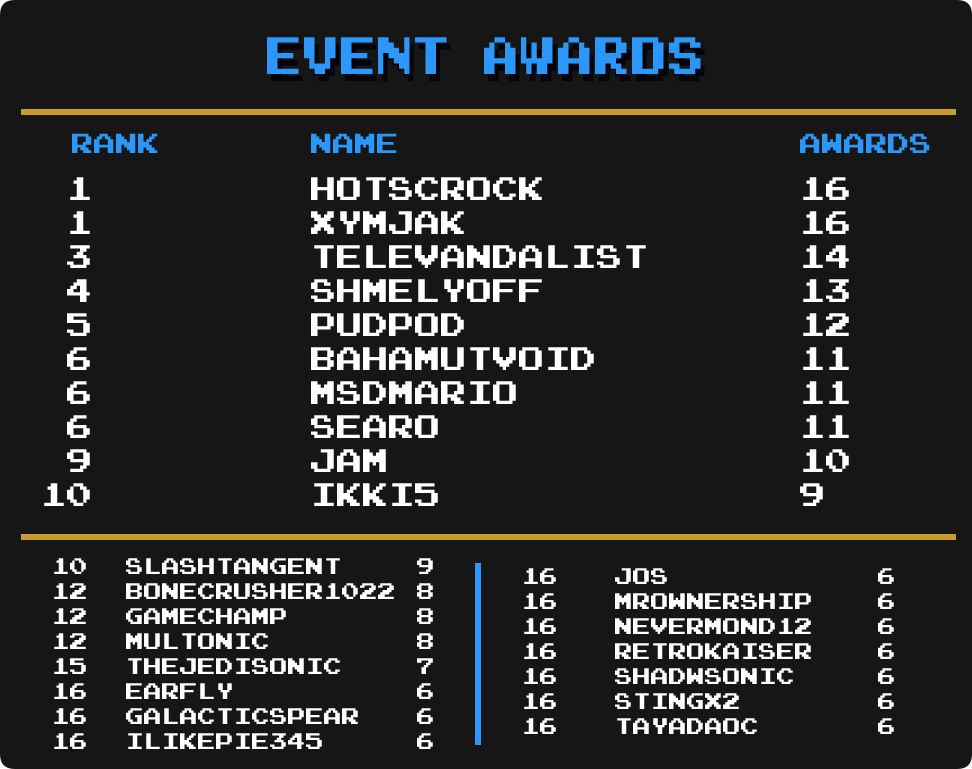
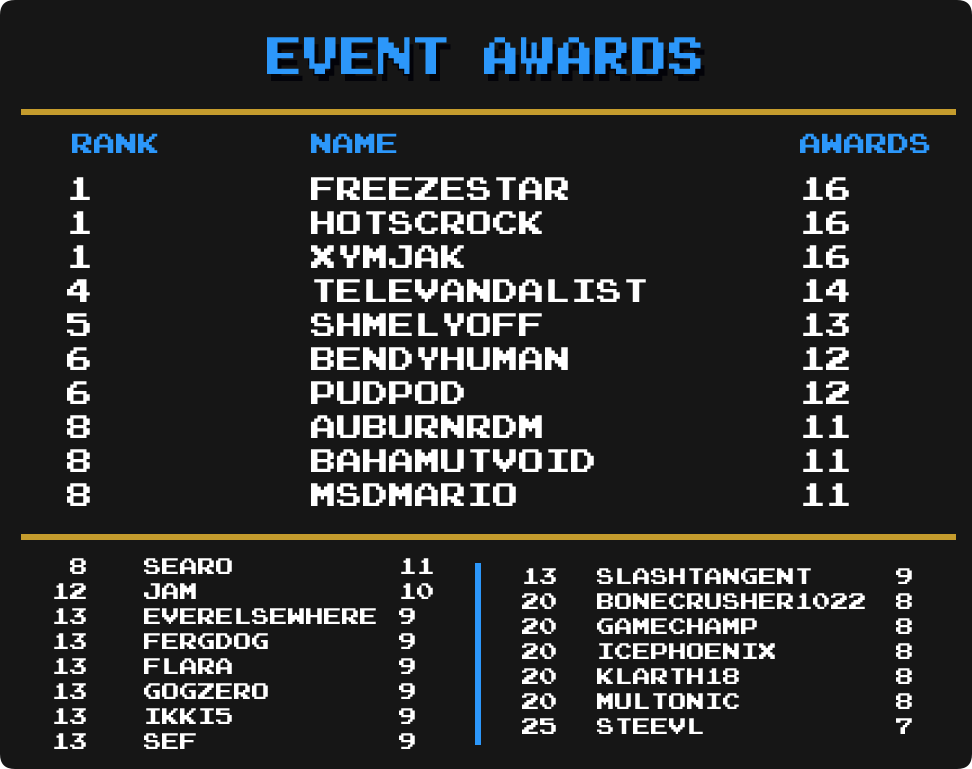
Event Awards fix

diff --git a/_issues/2023-01/top-masteries.md b/_issues/2023-01/top-masteries.md
@@ -23,8 +23,8 @@ Special thanks to {% rauserpic Nydaxn %} for creating the ranking image template
 | :joystick: Category         | :trophy: Champions                                                             | Mastery Awards |
 | --------------------------- | ------------------------------------------------------------------------------ | -------------- |
 | Total Awards                | {% rauserpic guineu %}                                                         | 1011           |
-| Event Awards                | {% rauserpic Hotscrock %} & {% rauserpic Xymjak %}                             | 32             | <!-- 101 --> |
-| Site Awards                 | {% rauserpic Snow %}                                                           | 32             | <!-- 101 --> |
+| Event Awards                | {% rauserpic freezestar %}, {% rauserpic Hotscrock %} & {% rauserpic Xymjak %} | 16             | <!-- 101 --> |
+| Site Awards                 | {% rauserpic Snow %}                                                           | 23             | <!-- 101 --> |
 | 3DO Interactive Multiplayer | {% rauserpic Vyach59 %}                                                        | 12             | <!-- 43  --> |
 | Amstrad CPC                 | {% rauserpic roukanumachi %}                                                   | 15             | <!-- 37  --> |
 | Apple II                    | {% rauserpic guineu %}                                                         | 12             | <!-- 38  --> |
@@ -117,7 +117,7 @@ Special thanks to {% rauserpic Nydaxn %} for creating the ranking image template
 <p align="center">
   <img src="img/TopMasteries/EVENT_AWARDS.png" />
 </p>
-* {% rauserpic Hotscrock %}, {% rauserpic Xymjak %} & {% rauserpic televandalist %} hold the top 3 spots in the Events Award split.
+* {% rauserpic freezestar %}, {% rauserpic Hotscrock %} & {% rauserpic Xymjak %} hold the top 3 spots in the Events Award split.
 
 ### Site Awards
 
